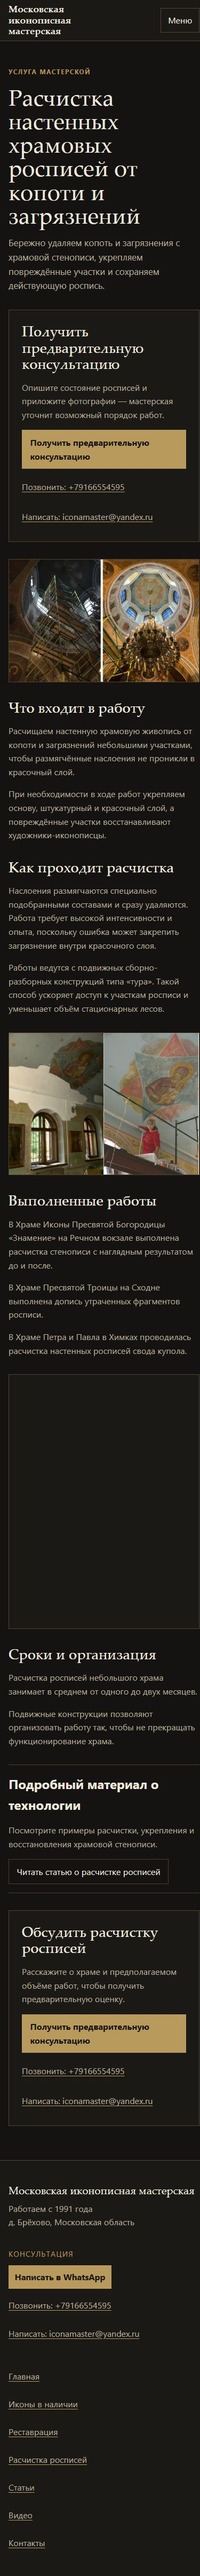
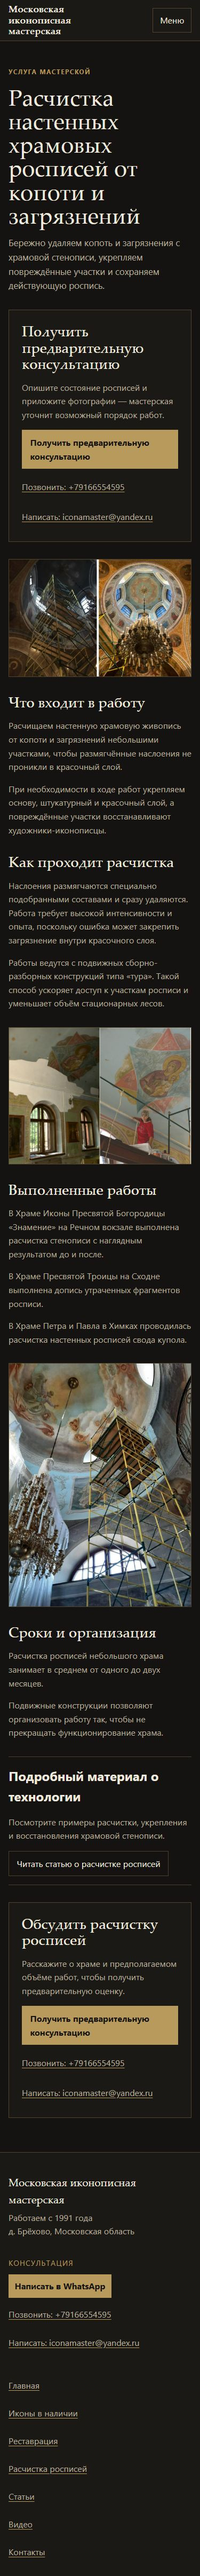
fix: verify clean static preview routes

Changed region(s): [[0.0293, 0.2176, 0.9973, 0.9948], [0.88, 0.1554, 0.9387, 0.1865]]

diff --git a/reports/seo-static-generation-qa.md b/reports/seo-static-generation-qa.md
@@ -42,4 +42,60 @@ All local route content, CSS, and visible images used the built preview without 
 
 ## Outcome
 
-Static artifacts, responsive presentation, menu navigation, contact destinations, and post-hydration metadata transitions passed. No source or design defect was changed. The no-slash Vite preview fallback and unavailable local Metrika function are the only acceptance limitations noted above.
+The initial pass found no design defect, but its Vite-preview clean-path and local-goal limitations were superseded by the correction and evidence in Fix Round 1 below.
+
+## Fix Round 1 — preview routing and instrumented interactions
+
+### Reproduced and corrected clean-path preview behavior
+
+The initial focused regression reproduced the defect: Vite preview answered `GET /raschistka-hramovyh-rospisey` with the root prerendered document (`data-prerender-path="/"` and the home title), rather than `dist/client/raschistka-hramovyh-rospisey/index.html`. The regression now starts an actual Vite preview on an ephemeral local port and asserts that the exact no-slash URL returns status 200, the murals title, and `data-prerender-path="/raschistka-hramovyh-rospisey"`.
+
+The smallest correction is a preview-server-only middleware in `vite.config.mjs`: for a safe GET/HEAD clean path it serves that route's generated `index.html` when present. It does not change `dist/client`, Apache rules, the worker, or production routing. After the change, direct HTTP checks and the browser both returned the exact prerendered document before hydration for `/raschistka-hramovyh-rospisey`, `/icons/archangel-michael`, and `/contacts`; each response was 200 and had the appropriate route title and prerender path. `node --test tests/static-build.test.mjs` was RED before the correction and GREEN afterwards (5/5).
+
+### Browser-side metadata transition evidence
+
+The following were clicked through the SPA without a tab reload: Home → murals service → Home → Archangel Michael → Home → Contacts. At every hop there was exactly one managed title, canonical, description, OG title, OG description, and JSON-LD node (`data-seo-managed` count = 1 for each applicable tag; managed JSON-LD script count = 1).
+
+| Route after SPA navigation | Title / canonical | Description and OG description | JSON-LD identity |
+| --- | --- | --- | --- |
+| `/` | `Московская иконописная мастерская` · `https://iconamaster.ru/` | `Московская иконописная мастерская: иконы, реставрация и храмовые росписи.` | 1 LocalBusiness document |
+| `/raschistka-hramovyh-rospisey` | `Расчистка настенных храмовых росписей от копоти и загрязнений \| Московская иконописная мастерская` · `https://iconamaster.ru/raschistka-hramovyh-rospisey` | `Бережно удаляем копоть и загрязнения с храмовой стенописи, укрепляем повреждённые участки и сохраняем действующую роспись.` | 1 graph: Service + BreadcrumbList |
+| `/icons/archangel-michael` | `Икона чудо Архистратига Михаила. \| Московская иконописная мастерская` · `https://iconamaster.ru/icons/archangel-michael` | `21 х 17 см. доска липовая с ковчегом и двумя врезными шпонками, холст, натуральный левкас, настоящая минеральная яичная темпера, золото сусальное, копаловый…` | 1 graph: VisualArtwork + Product + BreadcrumbList |
+| `/contacts` | `Контакты \| Московская иконописная мастерская` · `https://iconamaster.ru/contacts` | `Контакты Московской иконописной мастерской.` | 1 graph: LocalBusiness + BreadcrumbList |
+
+The observed OG title matched each row's title. No warning/error console entries appeared during this recheck. The exact clean service page was already prerendered on initial browser load, so there was no observed title/content replacement flash during hydration.
+
+### Real local browser contact instrumentation and safe clicks
+
+An opt-in local-preview query (`?__qa_contact_instrument=1`) adds no production code or artifact change. It stubs `window.ym`, reads the original anchor contract, and intercepts only contact activation at capture phase after recording it. Each entry below was activated in the browser through its rendered anchor; the address stayed on the local preview page, no external popup or operating-system handler was launched, and the recorded `defaultPrevented` changed from `false` to `true`.
+
+| Rendered target clicked | Original href / target | Recorded goal sequence |
+| --- | --- | --- |
+| Contacts WhatsApp | `https://wa.me/79166554595` / `_blank` (`rel=noreferrer`) | `contact-click` → `contact-navigation-intercepted` → `[112185835, "reachGoal", "contact_whatsapp"]` |
+| Contacts phone | `tel:+79166554595` / no target | `contact-click` → `contact-navigation-intercepted` → `[112185835, "reachGoal", "contact_phone"]` |
+| Contacts email | `mailto:iconamaster@yandex.ru` / no target | `contact-click` → `contact-navigation-intercepted` → `[112185835, "reachGoal", "contact_email"]` |
+| Murals primary consultation CTA | `https://wa.me/79166554595?text=…` / `_blank` (`rel=noreferrer`) | `contact-click` → `contact-navigation-intercepted` → `[112185835, "reachGoal", "murals_consultation"]` → `[112185835, "reachGoal", "contact_whatsapp"]` |
+
+The targeted test also executes the emitted instrumentation with a local VM event and confirms the click record, interception state, and phone goal call. This provides a regression for the test-only guard as well as the live-browser click coverage.
+
+### Mobile recapture and lazy-image evidence
+
+The required embedded in-app browser was subsequently available for the replacement capture. At the actual `390 × 844` viewport, the exact clean URL reported `innerWidth=390`, `innerHeight=844`, `location.pathname=/raschistka-hramovyh-rospisey`, and `data-prerender-path=/raschistka-hramovyh-rospisey`; title and H1 were the route-specific murals values. Before capture it was scrolled to `y=2300`, after which all three content images were complete with natural widths `1243`, `1200`, and `960`. The replacement [`qa-output/seo-murals-mobile.png`](../qa-output/seo-murals-mobile.png) is 294,791 bytes and visually contains the formerly blank third scaffold image. The embedded viewport was reset and its tab closed after capture.
+
+### Mobile target measurements (IAB, innerWidth 390)
+
+| Target | Measured size in CSS px |
+| --- | --- |
+| Menu button | 72.58 × 45.19 |
+| Leading primary murals CTA | 308 × 72.38 |
+| Leading phone / email | 192.61 × 44 / 245.39 × 44 |
+| Closing primary murals CTA | 308 × 72.38 |
+| Closing phone / email | 192.61 × 44 / 245.39 × 44 |
+| Footer WhatsApp / phone / email | 192.77 × 44 / 192.61 × 44 / 245.39 × 44 |
+| Footer nav: Главная / Иконы / Реставрация / Расчистка / Статьи / Видео / Контакты | 58.02 × 44 / 129.88 × 44 / 92.39 × 44 / 147.02 × 44 / 48.53 × 44 / 44.97 × 44 / 68.47 × 44 |
+| Open-menu: Главная / Иконы | 122.09 × 44 / 122.09 × 44 |
+| Open-menu: Расчистка росписей | 106.09 × 48.13 |
+| Open-menu: Реставрация / Статьи / Видео / Контакты | each 122.09 × 44 |
+| All other workshop submenu links | at least 44 px high (two-line links 48.13 px high) |
+
+Every measured interactive target satisfies the required 44 px minimum.
